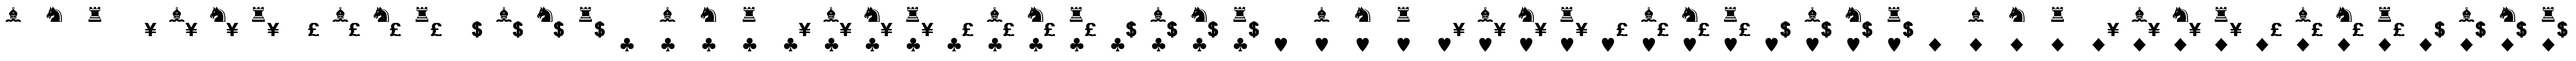
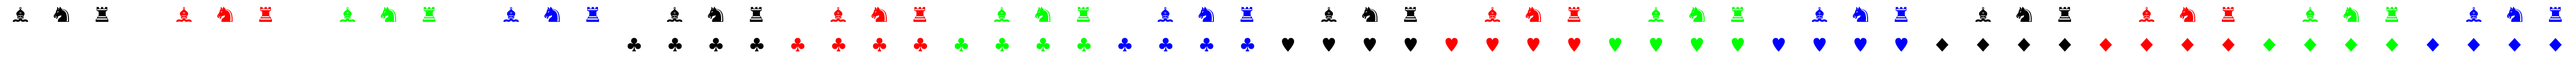
Better 3ptau cards again... maybe.

Changed region(s): [[0.0, 0.1, 0.9968, 0.85]]

diff --git a/static/styles.css b/static/styles.css
@@ -210,7 +210,7 @@ table {
 }
 
 .projectiveTau {
-  background:url('/static/projcards.png') no-repeat scroll 0 0 white;
+  background:url('/static/projcards.png?v=2') no-repeat scroll 0 0 white;
 }
 
 .selectedCard {

diff --git a/preprocessing/gen_projcards.py b/preprocessing/gen_projcards.py
@@ -9,10 +9,21 @@ CARD_WIDTH = 80
 CARD_HEIGHT = 120
 CARD_COUNT = 63
 
+chess_pad = 3
+chess_width = 30
+chess_offset = (CARD_WIDTH - chess_width)/2 - chess_pad
+
+suit_pad = 2
+suit_width = 24
+suit_offset = (CARD_WIDTH - suit_width)/2 - suit_pad
+
 symbol_coords = [
-  (8, 0),
-  (42, 32),
-  (12, 70),
+  #(8, 0),
+  #(42, 32),
+  #(12, 70),
+  (chess_offset, 0),
+  None,
+  (suit_offset, 70),
 ]
 
 symbols = [
@@ -21,11 +32,7 @@ symbols = [
     u'\u265E', # knight
     u'\u265C', # rook
   ],
-  [
-    u'\u00A5', # yen
-    u'\u00A3', # pound
-    u'\u0024', # dollar
-  ],
+  None,
   [
     u'\u2663', # club
     u'\u2665', # heart
@@ -39,14 +46,16 @@ def to_rgb_tuple(hex_colour):
 
 colours = map(to_rgb_tuple, [
   '#000000',
-  '#000000',
-  '#000000',
+  '#FF0000',
+  '#00FF00',
+  '#0000FF',
 ])
 
 pygame.font.init()
 symbol_fonts = [
   pygame.font.SysFont('arialunicodems', 36),
-  pygame.font.SysFont('arialunicodems', 36, bold=True),
+  None,
+  #pygame.font.SysFont('arialunicodems', 36, bold=True),
   pygame.font.Font('/Users/malcolmsharpe/Library/Fonts/Batang.ttf', 36),
 ]
 
@@ -63,9 +72,9 @@ for i in range(CARD_COUNT):
   x_offset = i * CARD_WIDTH
 
   for j in range(len(card)):
-    if card[j]:
+    if card[j] and symbol_coords[j] is not None:
       x = x_offset + symbol_coords[j][0]
       y = symbol_coords[j][1]
-      putsymbol(symbol_fonts[j], symbols[j][card[j]-1], (x,y), colours[j])
+      putsymbol(symbol_fonts[j], symbols[j][card[j]-1], (x,y), colours[card[1]])
 
 pygame.image.save(s, '../static/projcards.png')
